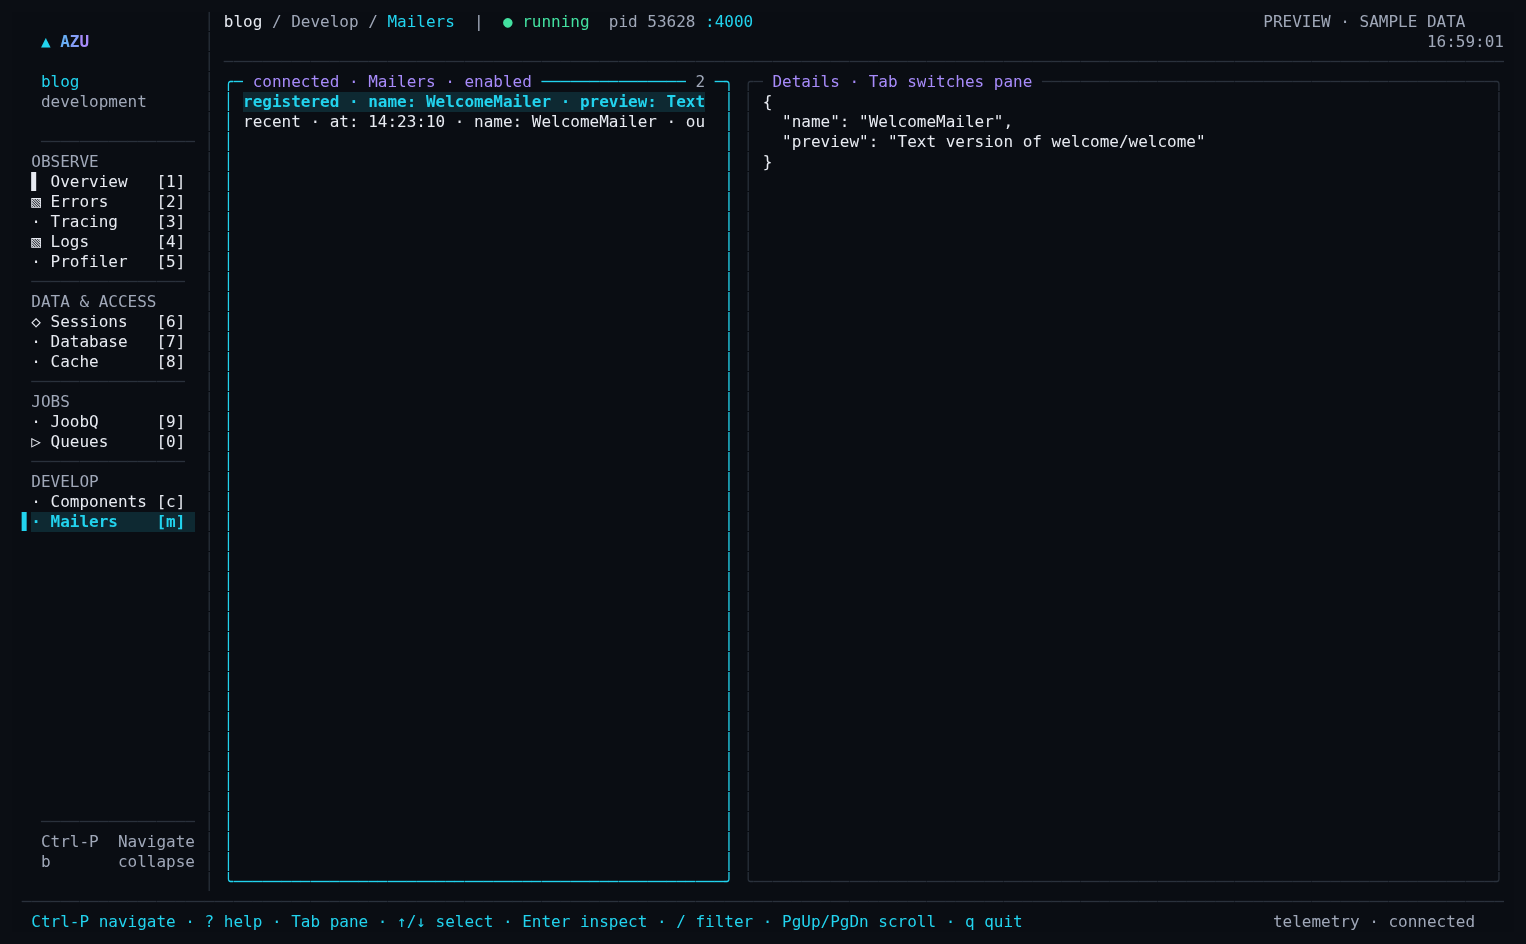
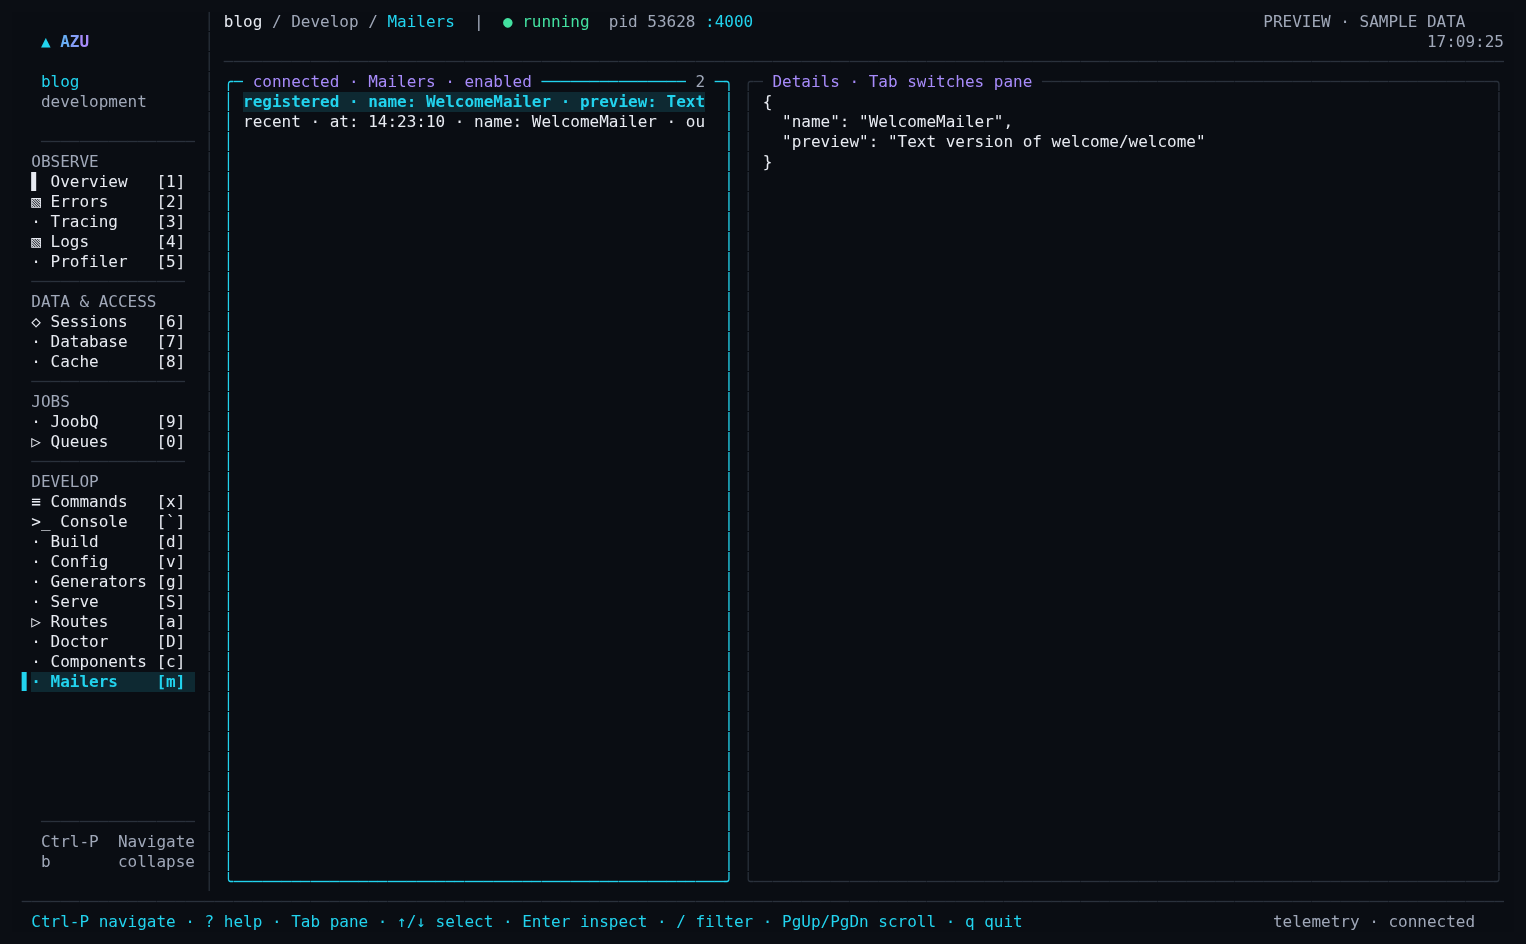
feat: add complete Develop destinations to the HUD sidebar

Changed region(s): [[0.0, 0.5222, 0.154, 0.7373], [0.9548, 0.0307, 0.9856, 0.0614]]

diff --git a/scripts/render_mission_control_preview.js b/scripts/render_mission_control_preview.js
@@ -32,7 +32,7 @@ function ansiHtml(input) {
 (async () => {
   const browser = await chromium.launch({headless:true,executablePath:process.env.CHROMIUM_PATH || undefined,args:['--no-sandbox']});
   const page = await browser.newPage({viewport:{width:1440,height:1000},deviceScaleFactor:1});
-  for (const name of ['overview', 'sql', 'auth', 'menu', 'production', 'compact', 'hints', 'tracing', 'cache', 'mailers']) {
+  for (const name of ['overview', 'sql', 'auth', 'menu', 'production', 'compact', 'hints', 'tracing', 'cache', 'mailers', 'generators', 'serve', 'doctor']) {
     const html = `<!doctype html><html lang="en"><meta charset="utf-8"><title>Azu ${name} — actual terminal frame, sample data</title><style>body{margin:0;background:#0b0e14;color:#e6edf3;padding:12px;width:max-content}pre{font:16px/20px 'DejaVu Sans Mono',monospace;margin:0;white-space:pre}.cell{display:inline-block;width:1ch;height:20px;line-height:20px;text-align:center;vertical-align:top;background-color:inherit}</style><pre>${ansiHtml(fs.readFileSync(path.join(dir,name+'.ansi'),'utf8'))}</pre></html>`;
     const output = path.join(dir, name+'-theme-preview.html');
     fs.writeFileSync(output,html);

diff --git a/docs/getting-started/terminal-ui.md b/docs/getting-started/terminal-ui.md
@@ -39,7 +39,7 @@ Rich mode uses the terminal's alternate screen and restores it on exit. `--ui ri
 | Enter | Inspect the selection |
 | `/`, Esc | Filter, then clear the filter |
 | PageUp / PageDown | Scroll the focused list or details |
-| `g`, `:` | Compose a generator or command |
+| `g`, `:` | Open Generators / compose a command |
 | Backtick | Open the local console |
 | `q` | Quit; disconnect in production monitoring |
 
@@ -65,9 +65,9 @@ Text-entry views keep letters as input. Ctrl-P remains available from the consol
 | Observe | Overview health/cards; Errors and exception details; Tracing distributions/endpoints; highlighted Logs; Profiler spans and GC trend |
 | Data & Access | Sessions lifecycle and backend; Database summary, SQL/pool, schema, migrations; Cache operations |
 | Jobs | JoobQ workers/workflows/DLQ; Queues & Activity counters |
-| Develop | Components lifecycle; Mailers delivery outcomes and static previews |
+| Develop | Commands, Console, Build, Config, Generators, Serve, Routes, Doctor, Components, Mailers |
 
-Build, console, commands, configuration, and routes remain available through Ctrl-P. SQL is a Database subview; the `s` shortcut opens its inspector.
+Develop contains the local tools in this order: Commands (`x`), Console (backtick), Build (`d`), Config (`v`), Generators (`g`), Serve (`S`), Routes (`a`), Doctor (`D`), then Components (`c`) and Mailers (`m`). They are also searchable through Ctrl-P. Enter in Generators opens the reviewed command editor. Serve shows and restarts the existing development server; it does not spawn a second server. Enter in Routes or Doctor refreshes their command output through the existing runner. Local execution tools are hidden in production monitoring. SQL is a Database subview; the `s` shortcut opens its inspector.
 
 ## Realistic output
 

diff --git a/docs/command-reference/azu-dev.md b/docs/command-reference/azu-dev.md
@@ -8,7 +8,7 @@ description: Run your app in development, rebuilding and restarting it on every 
 
 The workspace mirrors Azu's browser dashboard with a health banner and paged cards for uptime, memory, latency, routes, traffic, errors, cache, database, components, and runtime. Optional features are hidden when explicitly disabled; missing telemetry remains labeled unavailable.
 
-Use Ctrl-P to navigate the four sidebar groups. Errors lives under **Observe**; **Sessions** replaces Auth; **Database** contains SQL, pool, schema, and migration subviews. **Jobs** holds JoobQ management and Queues & Activity. Components and Mailers live under **Develop**. Build, console, configuration, routes, and command composition remain available through the palette.
+Use Ctrl-P to navigate the four sidebar groups. Errors lives under **Observe**; **Sessions** replaces Auth; **Database** contains SQL, pool, schema, and migration subviews. **Jobs** holds JoobQ management and Queues & Activity. **Develop** contains Commands, Console, Build, Config, Generators, Serve, Routes, Doctor, Components and Mailers. Serve controls the existing development server. Enter in Routes or Doctor refreshes the command output; Enter in Generators opens the reviewed editor. All destinations also remain in the command palette.
 
 Press `[` / `]` to change Overview pages or Database subviews, Tab to move focus, Enter to inspect, and `h` for contextual help. The sidebar collapses below 104 columns. Dense lists and stack traces scroll inside their panes. See [Terminal UI](../getting-started/terminal-ui.md) for the complete key map.
 
